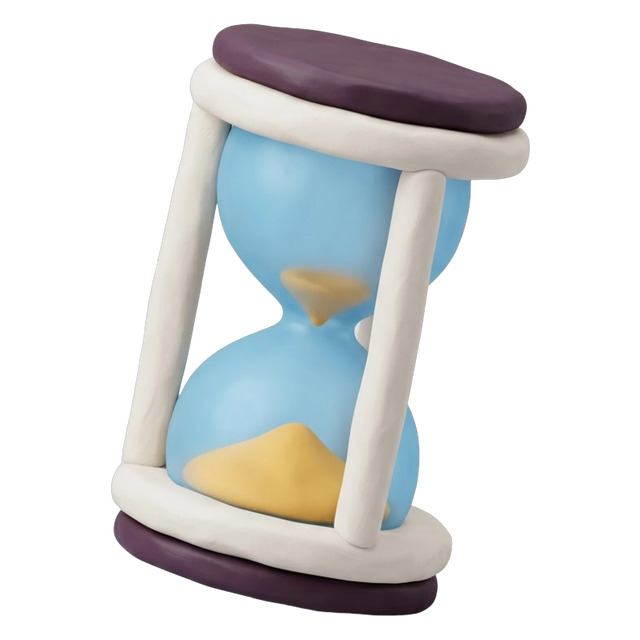
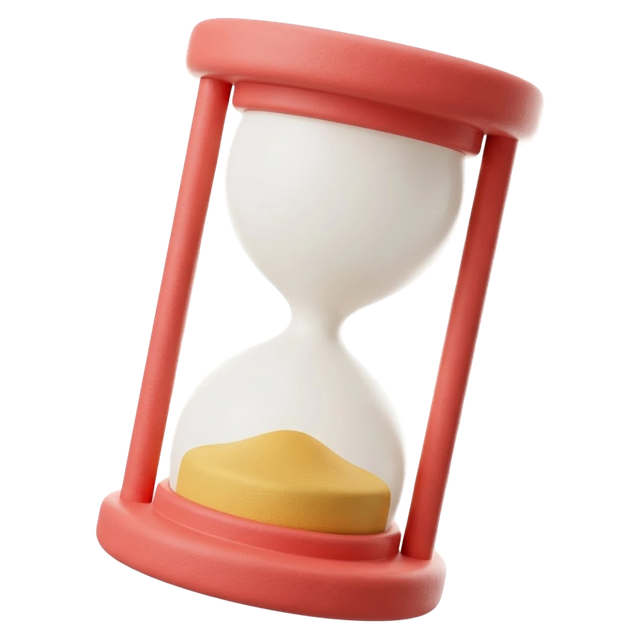
Clay v2: expired hourglass; prompts fixed ahead from review lessons

diff --git a/docs/CLAY-PROMPTS-V2.md b/docs/CLAY-PROMPTS-V2.md
@@ -20,6 +20,33 @@ reference image."
 
 > Style: matte modelling-clay material with a fine, even clay grain, pressed in a precision mould: machine-finished, perfectly symmetrical forms, uniform rounded bevels on every edge, crisp clean seams, no fingerprints, tool marks, lumps or hand-sculpted wobble. A soft clay sheen, not glossy plastic. Soft studio key light from the top left, a gentle bright rim light along the top and right edges, subtle ambient occlusion, no cast or contact shadow. One simple object with a clear silhouette, no scene and no extra props. The main object is the hero; any secondary part (a tag, badge, sparkle) is about a third of its size, sits in front of it, never pinned to its edge, and is attached where it would be in real life. Arrows are straight (up or down), never diagonal. Stacked items are fanned in a clear arc so each one is visible. The object is one dominant colour, with at most one detail colour and one small accent; symbols are chunky raised moulded glyphs. Use only these colours: gold #FFC94D, caramel #E0A76A, tan brown #C47A3F, coral red #F06A6F, sky blue #6CB8F0, mint #7FD8B4, off-white #F4F1EC, white glyphs, dark slate #4A4E63 glyphs. No dark green, no purple or plum anywhere. Plain flat light-grey background (#E9E9EC), no text, no logos. Square 1:1, object filling about 75% of the frame, crisp silhouette for background removal.
 
+## Lessons from review (apply to every new subject)
+
+Found in rounds 1–3 (2026-10-30); the subjects below already follow them.
+
+1. **Say the finished state.** Generators draw things in progress: sand
+   still falling, a lid half open. Spell out the end state ("top bulb
+   empty, nothing falling"; "shackle fully closed").
+2. **One meaning per symbol.** Red + white plus = first aid. Check each
+   symbol for a second meaning before using it; say "No red" or "No rocket"
+   when a cliché tends to creep in.
+3. **The user's meaning, not the system's.** Database = finding people, not
+   a cylinder. Draw what the recruiter gets.
+4. **One colour per idea, across the set.** Job = caramel + white
+   briefcase. People = sky blue figure, white head. Money/offer = gold.
+   Ended/alert = coral. Done = mint.
+5. **Never cover the part that carries the meaning.** A secondary prop sits
+   at a corner (lower right), never over the crossing, the clasp, the face.
+6. **Every item in a group shows whole.** Fanned cards show each avatar.
+7. **Compact shapes.** At most about 1.4 times as wide as tall, or it
+   shrinks to half height at 56px.
+8. **No blank slabs.** A large flat face reads "empty"; give it a raised
+   detail (a grid, a glyph).
+9. **Chunky over thin.** Rings, strings, handles, rims: thick, or they
+   vanish at 56px.
+10. **No two icons share an object.** Coming soon was a rocket like deploy;
+    it is now a cone.
+
 ## The surfaces
 
 Every icon also appears in dark mode (near-black plum #1C151E), so every
@@ -91,31 +118,35 @@ off-white = paper, neutral parts.
 ## C · White pop-ups (product)
 
 **expired** (offer expired, cancel plan, plan ended)
-> Subject: a rounded hourglass, slightly tilted, the last grains settled at the bottom. Coral frame (#F06A6F), off-white glass (#F4F1EC), gold sand (#FFC94D).
+> ✅ Round 2 approved (2026-10-30): top empty, sand settled. Installed.
+>
+> Round 1: finish, tilt and colours right. Half the sand is still on top and falling, so it reads "time running out" (a countdown), not "expired".
+>
+> Subject: a rounded hourglass, slightly tilted, finished: the top bulb completely empty, all the sand settled in a mound at the bottom, nothing falling. Coral frame (#F06A6F), off-white glass (#F4F1EC), gold sand (#FFC94D).
 
 **contact** (Contact us, Talk to sales)
-> Subject: a rounded speech bubble with three raised dots inside. Sky blue bubble (#6CB8F0), white dots.
+> Subject: a thick rounded speech bubble with a clear tail at its lower left, three raised dots inside. Sky blue bubble (#6CB8F0), white dots.
 
 **job-types** (job types pop-up, plan step)
-> Subject: a rounded briefcase with a top handle and a small front clasp, a raised star badge on its front. Caramel body (#E0A76A), off-white clasp (#F4F1EC), a gold star (#FFC94D).
+> Subject: a chunky rounded briefcase with a thick top handle and a front clasp; a gold star badge about a third of its height floats in front of its lower right, not covering the clasp. Caramel body (#E0A76A), off-white clasp (#F4F1EC), a gold star (#FFC94D).
 
 **improve** (plan change: upgrade)
-> Subject: a short bar chart of three thick rounded bars rising left to right, with a chunky arrow pointing straight up in front of the tallest bar. Mint arrow (#7FD8B4), off-white bars (#F4F1EC), the tallest bar gold (#FFC94D).
+> Subject: a short bar chart of three thick rounded bars rising left to right, all bars fully visible, with a chunky arrow pointing straight up from the top of the tallest bar. Mint arrow (#7FD8B4), off-white bars (#F4F1EC), the tallest bar gold (#FFC94D).
 
 **success** (thank-you, plan changed)
-> Subject: a round badge with a raised check mark in the centre. Mint body (#7FD8B4), white check.
+> Subject: a thick round badge with a chunky raised check mark in the centre, nothing else. Mint body (#7FD8B4), white check.
 
 **access** (city locked, access)
-> Subject: a rounded padlock with a raised keyhole on its front. Gold body (#FFC94D), off-white shackle (#F4F1EC), a dark slate keyhole.
+> Subject: a chunky rounded padlock, locked: the thick shackle fully closed into the body, a raised keyhole on its front. Gold body (#FFC94D), off-white shackle (#F4F1EC), a dark slate keyhole.
 
 **no-results** (empty search)
-> Subject: a chunky magnifying glass tilted at an angle, an empty lens. Sky blue ring and handle (#6CB8F0), white lens with a soft highlight.
+> Subject: a chunky magnifying glass tilted at an angle; its white lens shows only a raised question mark, no person and nothing else. Sky blue ring and handle (#6CB8F0), white lens, a dark slate question mark.
 
 **coming-soon** (pages still being built)
-> Subject: a small rounded rocket pointing up, a round window on its body. Off-white body (#F4F1EC), sky blue window (#6CB8F0), coral fins (#F06A6F).
+> Subject: a chunky rounded traffic cone with two raised stripes, standing upright on a square base (work in progress). Coral cone (#F06A6F), white stripes, an off-white base (#F4F1EC). No rocket.
 
 **ai-calling** (AI calling agent)
-> Subject: a rounded phone handset tilted at an angle, two small curved signal waves beside it, a tiny four-point sparkle. Sky blue handset (#6CB8F0), white waves, a gold sparkle (#FFC94D).
+> Subject: a chunky rounded phone handset tilted at an angle, two thick curved signal waves beside its upper end, and a four-point sparkle about a quarter of the handset's size floating at its upper right (the AI). Sky blue handset (#6CB8F0), white waves, a gold sparkle (#FFC94D).
 
 **wallet** (balance, payments)
 > Subject: a rounded bifold wallet with a strap and a round snap button, three banknotes peeking out of the top. Tan brown body (#C47A3F), mint notes (#7FD8B4), a gold snap (#FFC94D).
@@ -134,10 +165,10 @@ off-white = paper, neutral parts.
 > Subject: a rounded award rosette with two ribbon tails and a blank raised star in the centre. Gold rosette (#FFC94D), coral tails (#F06A6F), a white star.
 
 **team-management**
-> Subject: three rounded ID badges fanned out in a clear arc so all three are visible, each with a raised round avatar. Sky blue, mint and caramel badges, white avatars.
+> Subject: three rounded ID badges fanned out in a clear arc so each badge and its avatar shows whole, each with a raised round avatar. Sky blue, mint and off-white badges, white avatars (a sky blue avatar on the off-white badge).
 
 **ats-integrations**
-> Subject: two chunky rounded puzzle pieces clicking together. Sky blue piece (#6CB8F0) and gold piece (#FFC94D).
+> Subject: two chunky rounded puzzle pieces fully joined together, the tab sitting inside the slot. Sky blue piece (#6CB8F0) and gold piece (#FFC94D).
 
 **reports**
 > Subject: a rounded clipboard holding a raised bar chart of three bars. Off-white board (#F4F1EC), caramel clip (#E0A76A), sky blue, mint and gold bars.
@@ -149,13 +180,13 @@ off-white = paper, neutral parts.
 > Subject: a rounded headset with a small microphone arm. Sky blue band and ear cups (#6CB8F0), off-white cushions (#F4F1EC), a gold mic tip (#FFC94D).
 
 **smart-inbound**
-> Subject: a wide rounded inbox tray with two wide profile cards standing in it, fanned so both are visible. Sky blue tray (#6CB8F0), off-white cards with raised gold avatars.
+> Subject: a wide rounded inbox tray with two wide profile cards standing in it, fanned so each card and its avatar shows whole; a chunky arrow above them points straight down into the tray. Off-white tray (#F4F1EC), white cards with raised sky blue avatars (#6CB8F0), a gold arrow (#FFC94D).
 
 **database-search**
 > Same subject as **database** above.
 
 **walk-ins**
-> Subject: a rounded desk calendar page with a raised check mark. Off-white page (#F4F1EC), coral header strip (#F06A6F), a mint check (#7FD8B4).
+> Subject: a chunky rounded open door in its frame, a raised person (round head, rounded shoulders) standing in the doorway, walking in. Off-white frame (#F4F1EC), caramel door (#E0A76A), a sky blue person (#6CB8F0) with a white head.
 
 **enterprise**
 > Subject: a small rounded office building with three floors of window bands and a flat roof. Off-white body (#F4F1EC), sky blue windows (#6CB8F0), a gold door (#FFC94D).
@@ -181,7 +212,7 @@ off-white = paper, neutral parts.
 > Subject: a rounded paper plane in flight with a short curved trail. Sky blue plane (#6CB8F0), an off-white trail.
 
 **ownership-over-hierarchy**
-> Subject: three rounded blocks of the same height side by side, one with a raised star. Caramel, mint and sky blue blocks, a gold star.
+> Subject: three rounded blocks of exactly the same height side by side, one with a raised star. Off-white, mint and sky blue blocks, a gold star (#FFC94D).
 
 **raise-the-bar**
 > Subject: a rounded trophy cup on a short base. Gold cup (#FFC94D), caramel base (#E0A76A).
